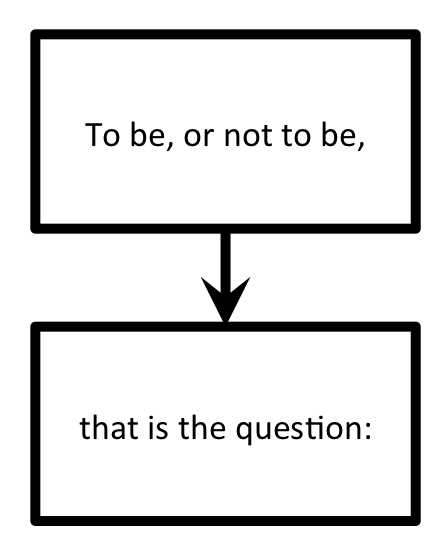
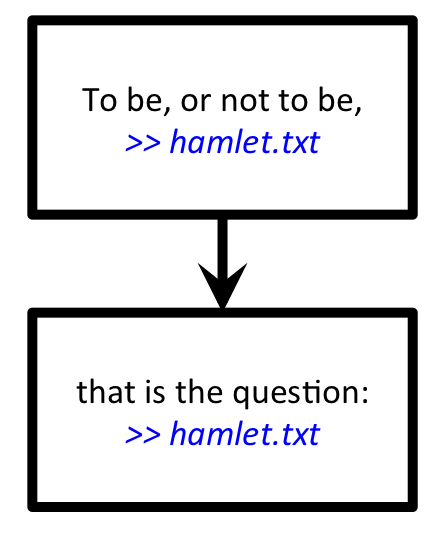
bug fixes and tutorial updates

diff --git a/fw_tutorials/workflow/addmod_task.py b/fw_tutorials/workflow/addmod_task.py
@@ -5,7 +5,7 @@ TODO: add docs
 """
 from fireworks.core.firetask import FireTaskBase
 from fireworks.utilities.fw_serializers import FWSerializable
-from fireworks.core.firework import FireWork, FWDecision
+from fireworks.core.firework import FireWork, FWDecision, WFConnections, FWorkflow
 
 __author__ = 'Anubhav Jain'
 __copyright__ = 'Copyright 2013, The Materials Project'
@@ -27,4 +27,11 @@ class AddModifyTask(FireTaskBase, FWSerializable):
             f.write("The sum of {} is: {}".format(input_array, m_sum))
 
         # store the sum; push the sum to the input array of the next sum
-        return FWDecision('MODIFY', {'sum': m_sum}, {'dict_mods': [{'$push': {'input_array': m_sum}}]})
+        return FWDecision('MODIFY', {'sum': m_sum}, {'dict_mods': [{'_push': {'input_array': m_sum}}]})
+
+if __name__ == '__main__':
+    fw1 = FireWork(AddModifyTask({}), {"input_array": [1, 1]}, fw_id=-1)
+    fw2 = FireWork(AddModifyTask({}), {"input_array": [2]}, fw_id=-2)
+    c = WFConnections({-1: -2})
+    d = FWorkflow([fw1, fw2], c)
+    d.to_file("addmod_wf.yaml")

diff --git a/fireworks/core/fw_constants.py b/fireworks/core/fw_constants.py
@@ -16,7 +16,7 @@ __date__ = 'Dec 12, 2012'
 
 YAML_STYLE = False  # controls whether YAML documents will be nested as braces or blocks (False = blocks)
 USER_PACKAGES = ['fireworks.user_objects', 'fireworks.utilities.tests',
-                 'fw_tutorials.firetask']  # this is where load_object() looks for serialized objects
+                 'fw_tutorials']  # this is where load_object() looks for serialized objects
 
 FW_NAME_UPDATES = {}  # if you update a _fw_name, you can use this to record the change and maintain deserialization 
 FW_BLOCK_FORMAT = '%Y-%m-%d-%H-%M-%S-%f'  # date format for writing block directories in "rapid-fire" mode

diff --git a/fireworks/core/launchpad.py b/fireworks/core/launchpad.py
@@ -161,7 +161,7 @@ class LaunchPad(FWSerializable):
 
         elif fw_decision.action == 'MODIFY':
             for cfid in child_fw_ids:
-                self. _update_fw_spec(self, cfid, fw_decision.mod_spec['dict_mods'])
+                self. _update_fw_spec(cfid, fw_decision.mod_spec['dict_mods'])
 
         elif fw_decision.action == 'DETOUR':
             # TODO: implement

diff --git a/docs/workflow_tutorial.rst b/docs/workflow_tutorial.rst
@@ -25,13 +25,14 @@ Let's define and execute this workflow.
 
     cd <INSTALL_DIR>/fw_tutorials/workflow
 
-#. The workflow is encapsulated in the ``hamlet_wf.yaml`` file. Look inside this file. The first section, labeled ``fws``, contains a list of FireWork objects. The second section, labeled ``wf_connections``, connects these FireWorks into a workflow. In this file:
+#. The workflow is encapsulated in the ``hamlet_wf.yaml`` file. Look inside this file. The first section, labeled ``fws``, contains a list of FireWork objects:
 
-    * We define a FireWork with ``fw_id`` set to -1, and that prints ``To be, or not to be,``.
-    * We define another FireWork with ``fw_id`` set to -2, and that prints ``that is the question:``
-    * In the ``wf_connections`` section, we are specifying that the child of FW with id -1 is the FW with id -2. This means that we will run the ``To be, or not to be,`` FireWork before the ``that is the question:`` FireWork.
+    * We define a FireWork with ``fw_id`` set to -1, and that prints *"To be, or not to be,"*.
+    * We define another FireWork with ``fw_id`` set to -2, and that prints *"that is the question:"*
 
-    .. note:: You can also serialize a workflow to a .tar file, which allows you to use a separate file for each FireWork. For details, see the tutorial on FW serialization (*future*)
+    The second section, labeled ``wf_connections``, connects these FireWorks into a workflow:
+
+    * In the ``children_links`` subsection, we are specifying that the child of FW with id -1 is the FW with id -2. This means that we want to run *"To be, or not to be,"* first, and *"that is the question:"* after that.
 
 #. Let's insert this workflow into our database::
 
@@ -43,9 +44,9 @@ Let's define and execute this workflow.
     launchpad_run.py get_fw 1
     launchpad_run.py get_fw 2
 
-#. You should notice that the FireWork that writes the first line of the text ("*To be, or not to be,*") shows a state that is ``READY`` to run. In contrast, the FireWork that writes the second line ("*that is the question:*") shows a state of ``WAITING``. The ``WAITING`` state indicates that a Rocket should not pull this FireWork just yet.
+#. You should notice that the FireWork that writes the first line of the text (*"To be, or not to be,"*) shows a state that is ``READY`` to run. In contrast, the FireWork that writes the second line (*"that is the question:"*) shows a state of ``WAITING``. The ``WAITING`` state indicates that a Rocket should not pull this FireWork just yet.
 
-    .. note:: The ``fw_id`` is assigned randomly, and you should not expect that the smaller ``fw_id`` will be assigned to the FireWork that will run first.
+    .. note:: The ``fw_id`` is assigned randomly, and it's possible that that the FireWork that will run first will have a larger ``fw_id`` than the one that runs second.
 
 #. Let's run the just first step of this workflow, and then examine the state of our FireWorks::
 
@@ -69,5 +70,5 @@ Let's define and execute this workflow.
 
     rm fw.json hamlet.txt
 
-.. note:: In general, we do not recommend running ``rocket_launcher_run.py singleshot`` multiple times in the same directory, because the ``fw.json`` file gets overwritten. Instead, the ``rocket_launcher_run.py rapidfire`` option is recommended, along with defining appropriate data dependencies between your jobs (rapidfire changes directories, meaning you can't trivially access the same ``hamlet.txt`` file in both FireWorks).
+.. note:: In general, we do not recommend running ``rocket_launcher_run.py singleshot`` multiple times in the same directory, because the ``fw.json`` file gets overwritten. We are running in the same directory for this example so that that both FireWorks can access ``hamlet.txt``. In a later tutorial we will cover how to properly pass files between FireWorks in a workflow.
 
